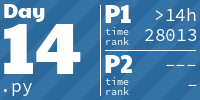
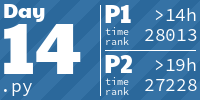
2024 - Day 14, part 2 after all

Changed region(s): [[0.72, 0.78, 0.99, 0.93], [0.78, 0.57, 0.99, 0.72]]

diff --git a/ibidem/advent_of_code/y2024/dec14.py b/ibidem/advent_of_code/y2024/dec14.py
@@ -2,8 +2,13 @@
 import re
 from dataclasses import dataclass, field
 
+import numpy as np
+from rich.progress import track
+
 from ibidem.advent_of_code.board import Board
 from ibidem.advent_of_code.util import get_input_name
+from ibidem.advent_of_code.visualizer import initialize_and_display_splash, Sprites, Tiles
+from ibidem.advent_of_code.visualizer.board import BoardVisualizer
 
 ROBOT_PATTERN = re.compile(r"p=(\d+),(\d+) v=(-?\d+),(-?\d+)")
 
@@ -43,16 +48,7 @@ def load(fobj, board_x, board_y):
 
 def part1(input):
     robots, board = input
-    mid_x = board.size_x // 2
-    mid_y = board.size_y // 2
-    for x in range(board.size_x):
-        for y in range(board.size_y):
-            if x == mid_x or y == mid_y:
-                board.set(x, y, ".")
-    for step in range(100):
-        for robot in robots:
-            robot.position.x = (robot.position.x + robot.velocity.x) % board.size_x
-            robot.position.y = (robot.position.y + robot.velocity.y) % board.size_y
+    mid_x, mid_y, _ = simulate(board, robots, 100)
     field = Field()
     for robot in robots:
         if robot.position.x < mid_x and robot.position.y < mid_y:
@@ -66,11 +62,59 @@ def part1(input):
     return field.safety_factor()
 
 
-def part2(input):
-    return None
+def simulate(board, robots, steps, check=lambda b: False):
+    mid_x = board.size_x // 2
+    mid_y = board.size_y // 2
+    for x in range(board.size_x):
+        for y in range(board.size_y):
+            if x == mid_x or y == mid_y:
+                board.set(x, y, ".")
+    blank_board = board.copy()
+    visualizer = None
+    if visualize:
+        initialize_and_display_splash()
+        visualizer = BoardVisualizer(board, {"#": Sprites.Tank, ".": Tiles.Stone, " ": Tiles.Grass})
+        if pause:
+            visualizer.pause()
+    for step in track(range(steps)):
+        board = blank_board.copy()
+        for robot in robots:
+            robot.position.x = (robot.position.x + robot.velocity.x) % board.size_x
+            robot.position.y = (robot.position.y + robot.velocity.y) % board.size_y
+            board.set(robot.position.x, robot.position.y, "#")
+        if visualizer:
+            visualizer.draw_board(board)
+        if check(board):
+            break
+    if pause and visualizer:
+        visualizer.pause()
+    return mid_x, mid_y, step+1
 
+
+def part2(input):
+    robots, board = input
+    needle = np.array(list("#" * 20))
+
+    def check(board):
+        for y in range(board.size_y):
+            for x in range(board.size_x - 20):
+                if np.array_equal(board.grid[y, x:x + 20], needle):
+                    return True
+
+    _, _, step = simulate(board, robots, 10000, check)
+    return step
+
+
+visualize = False
+pause = False
 
 if __name__ == "__main__":
+    import sys
+
+    if "--visualize" in sys.argv:
+        visualize = True
+    if "--pause" in sys.argv:
+        pause = True
     with open(get_input_name(14, 2024)) as fobj:
         p1_result = part1(load(fobj, 101, 103))
         print(f"Part 1: {p1_result}")

diff --git a/ibidem/advent_of_code/visualizer/__init__.py b/ibidem/advent_of_code/visualizer/__init__.py
@@ -76,6 +76,7 @@ class Visualizer(metaclass=ABCMeta):
         pass
 
     def pause(self):
+        self.draw_message("Press any key to continue", 40)
         while True:
             for event in pygame.event.get():
                 if event.type == pygame.QUIT:
@@ -88,6 +89,17 @@ class Visualizer(metaclass=ABCMeta):
 
     def close(self):
         pygame.quit()
+
+    def draw_message(self, msg, size):
+        rect = self.screen.get_rect()
+        font = pygame.font.Font(None, size)
+        text = font.render(msg, True, (255, 255, 255))
+        textRect = text.get_rect()
+        x = rect.centerx - (textRect.width // 2)
+        y = rect.centery - (textRect.height // 2)
+        textRect.topleft = (x, y)
+        self.screen.blit(text, textRect)
+        pygame.display.flip()
 
 
 def initialize_and_display_splash():

diff --git a/ibidem/advent_of_code/visualizer/board.py b/ibidem/advent_of_code/visualizer/board.py
@@ -13,9 +13,9 @@ class BoardVisualizer(Visualizer):
 
     def draw_background(self):
         self._background = self.screen.copy()
-        self.draw_board()
+        self.draw_board(skip_fill=False)
 
-    def draw_board(self, board=None):
+    def draw_board(self, board=None, skip_fill=True):
         self.screen.blit(self._background, (0, 0))
         if board is None:
             board = self._board
@@ -23,6 +23,8 @@ class BoardVisualizer(Visualizer):
         for y, row in enumerate(grid):
             for x, value in enumerate(row):
                 if value is not None:
+                    if skip_fill and value == board._fill_value:
+                        continue
                     sprite = self._sprite_mapping.get(value)
                     if sprite is None:
                         continue

diff --git a/ibidem/advent_of_code/y2024/test/test_dec14.py b/ibidem/advent_of_code/y2024/test/test_dec14.py
@@ -52,7 +52,7 @@ class TestDec14():
         result = part1(loaded)
         assert result == case.part1
 
-    @pytest.mark.skip(reason="No clue where to start")
+    @pytest.mark.skip(reason="Test case has no christmas tree")
     def test_part2(self, loaded, case):
         result = part2(loaded)
         assert result == case.part2
